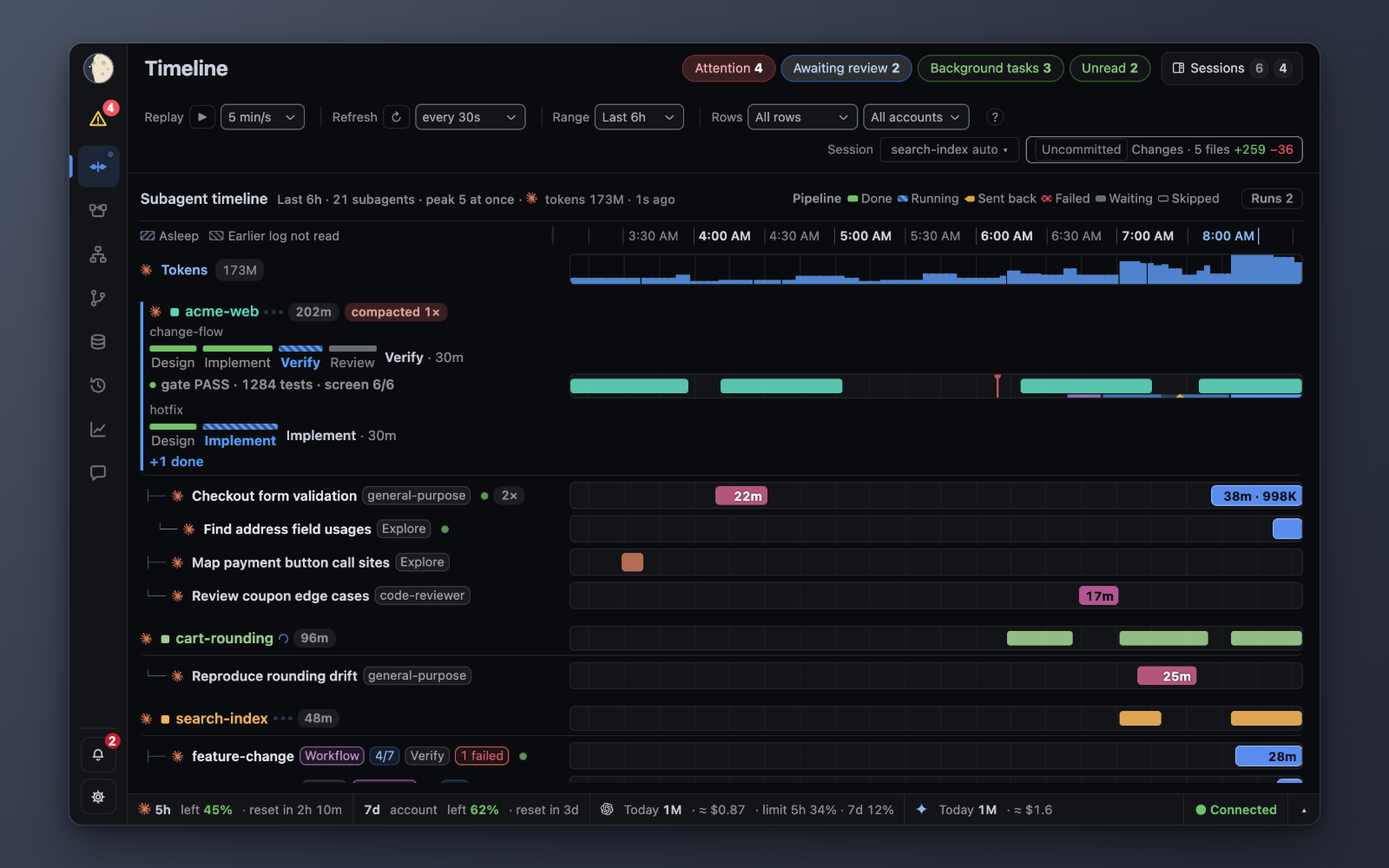
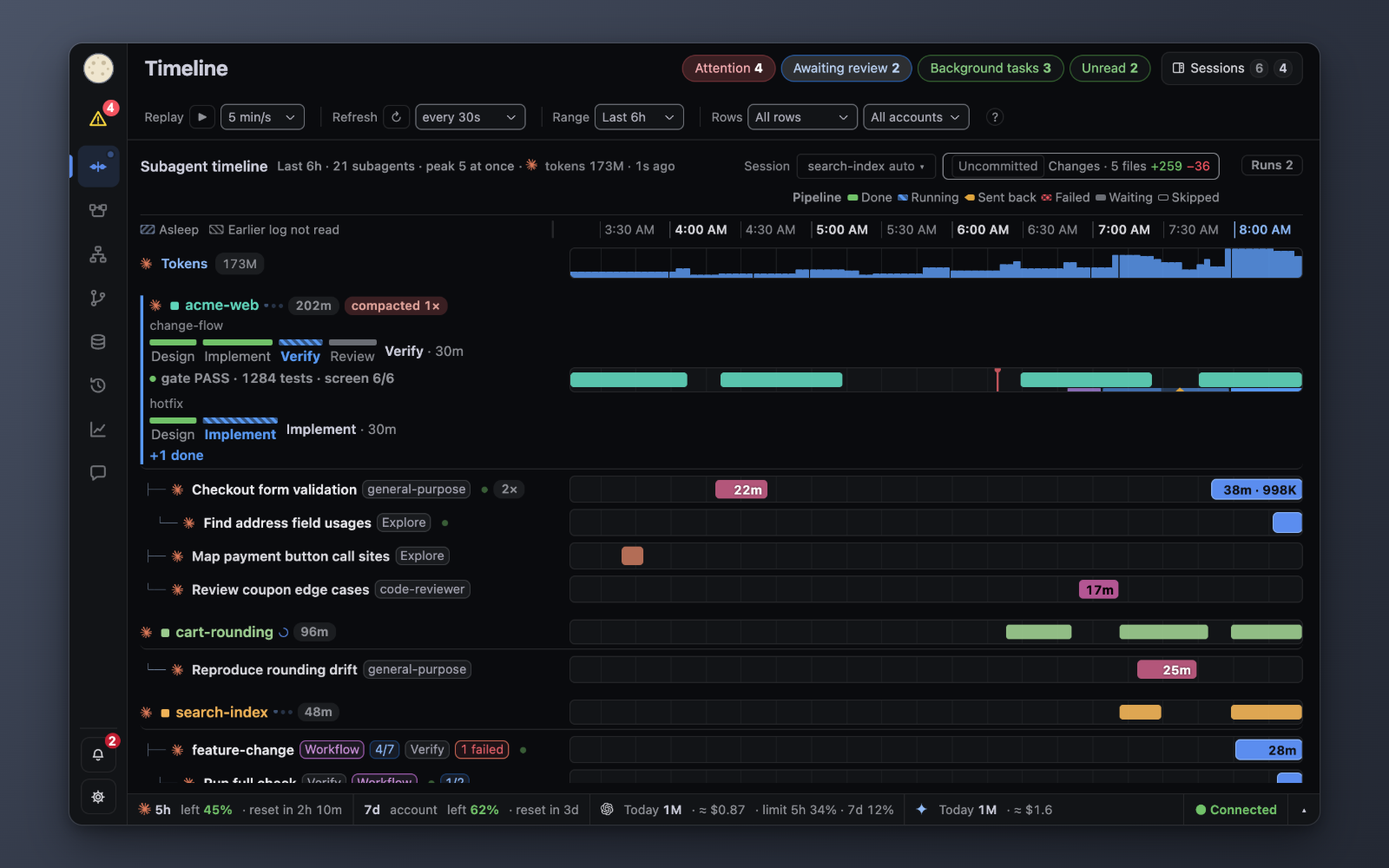
Timeline: move the Session picker and «Changes» chip to the head line
At 1100px the toolbar slot was 1012px and its content 1015px once the
baseline badge was added, so the Session/«Changes» group wrapped to a
second toolbar line. The group now sits right-aligned on the «Subagent
timeline» head line (empty window: on the empty-message line); the
toolbar keeps only replay, refresh, range and row controls.

paintTl rebuilds #feed, so tlgKeep/tlgRestore carry the old group node
across the rebuild while the session picker popover is open or focus is
inside it. The group keeps the 80px slot the absolute «Runs N» chip
needs, as the pipeline key already does. Dead toolbar rules removed.

Done when:
R1: toolbar fits one line at 1100 — PASS (live and demo 1100, ko/en)
R2: group shows on the head line without overlapping «Runs N» — PASS (demo 900/1100/1440 screen_check 6/6, shots read)
R3: picker popover and focus survive a head rebuild — PASS (tests/test_tl_focus_js.py HeadRebuild)
Not doing: reworking the 900px toolbar wrap (pre-existing «?» wrap in en).

Claude-Session: https://claude.ai/code/session_01MxebWeSyRGi1H6Uy4AA5wg

diff --git a/web/js/74-timeline.js b/web/js/74-timeline.js
@@ -146,7 +146,7 @@ function paintTl(){
   // No sessions at all = a first run: add the next step, otherwise an empty timeline is just a quiet period.
   const tlNext = (SESS || []).length ? '' : '<div class=hidnote>' + T('Next: start an AI coding-agent session — its subagents are drawn here.') + '</div>';
   // ⚠Controls before the empty return: widening the range is the only way out of an empty window ; the git chip stays (changes exist without subagents)
-  if(!rows.length){ tbSet('time', tlCtlHtml() + tlgChipHtml()); tlgWire(); box.innerHTML = '<div class=tlhd><i>' + (typeof tlEmptyMsg === 'function' ? tlEmptyMsg(d, rows) : esc(TV({msg: 'No subagents ran in the last {n}h', vars: {n: d.hours}}))) + '</i></div>' + tlNext; return void tlWireCtl(apFo); }
+  if(!rows.length){ tbSet('time', tlCtlHtml()); const gk = tlgKeep(box); box.innerHTML = '<div class=tlhd><i>' + (typeof tlEmptyMsg === 'function' ? tlEmptyMsg(d, rows) : esc(TV({msg: 'No subagents ran in the last {n}h', vars: {n: d.hours}}))) + '</i>' + tlgChipHtml() + '</div>' + tlNext; tlgRestore(gk); return void tlWireCtl(apFo); }
   const {t0, t1, span, pct} = tlRange(d, rows);
   const {ticks, axis} = tlAxis(d, t0, t1, span, pct);
   const drawn = tlDrawn(rows, pct);
@@ -160,8 +160,8 @@ function paintTl(){
   const L = {pct, t0, idleb, ticks, napb};
   const bars = ordered.map((g, gi) => tlRow(g, gi, L)).join('');
   const tlHead = tlHeadHtml(d, rows, tlHidden, tlPlLegendFor(ordered, L));
-  const tlgFo = tlgFocusId();   // ⚠rebuilding the toolbar drops a focused chip control to <body>; refocused by id below
-  tbSet('time', tlCtlHtml() + tlgChipHtml());
+  tbSet('time', tlCtlHtml());
+  const gk = tlgKeep(box);   // ⚠the head (with the «Changes» group) is rebuilt below; tlgRestore keeps the open picker's opener and focus
   const sc0 = box.querySelector('.tlscr'), scTop = sc0 ? sc0.scrollTop : 0;   // ⚠the rows scroller is rebuilt every repaint — keep its position
   box.innerHTML = tlHead
     // ★No bands on the axis row (2026-09-18: mark spans only on bar rows, leave the time band alone
@@ -183,8 +183,7 @@ function paintTl(){
       + '<div id=tldrw></div>');
   const sc1 = box.querySelector('.tlscr'); if(sc1 && scTop) sc1.scrollTop = scTop;
   tlWireCtl(apFo);
-  tlgWire();
-  if(tlgFo){ const f = document.getElementById(tlgFo); if(f) f.focus({preventScroll: true}); }
+  tlgRestore(gk);
   tlAxFit(box);
   tlAgeTick();
   tlWireRows(box);

diff --git a/web/css/22-timeline-git.css b/web/css/22-timeline-git.css
@@ -1,7 +1,18 @@
 /* Timeline toolbar «Changes» chip + session combobox (77-timeline-git.js). Theme tokens only. */
 .tlgb{display:inline-flex;align-items:center;gap:6px;min-width:0}
-/* ⚠Timeline toolbar is the widest (en 1100 needed 1264px): wrap the session/Changes group to a second line instead of scrolling sideways */
-html[data-ui=next] .tbs:has(> .tlgb){flex-wrap:wrap;row-gap:6px}
+/* Group lives in the timeline head row (74b tlHeadHtml) or the empty-window line, right-aligned before the pipeline legend.
+   ⚠.wvh span / .wvh b (40-tokens) and .wvh > span (05) restyle every span in the head; #feed id selectors reassert the chip look. */
+#feed :is(.wvh,.tlhd) > .tlgb{margin-left:auto;font-size:11px;font-weight:400;color:var(--nx-t2);overflow:visible;white-space:nowrap}
+/* ⚠The «Runs N» chip (.tlplhb) is absolute at line 1's right end; keep its slot free as .tlplg does (21-timeline-plrun.css). */
+#feed .wvh:has(> .tlplhb) > .tlgb{margin-right:80px}
+#feed .tlhd:has(> .tlgb){display:flex;align-items:center;gap:8px;flex-wrap:wrap}
+#feed .wvh .tlgb span{overflow:visible;text-overflow:clip;font-size:inherit;color:inherit}
+#feed .wvh .tlgb > b{color:var(--nx-t3);font-size:10.5px;font-weight:400}
+#feed .wvh .tlgb .tlga{color:var(--nx-ok)}
+#feed .wvh .tlgb .tlgd{color:var(--nx-err)}
+#feed .wvh .tlgb :is(.tlgsh,.tlgbkw){color:var(--nx-warn,var(--nx-err))}
+#feed .wvh .tlgb :is(.tlgbk,.tlgau){font-size:10px}
+#feed .wvh .tlgb .tlgbk:not(.tlgbkw),#feed .wvh .tlgb .tlgau{color:var(--nx-t3)}
 /* ⚠#id selector on purpose — html[data-ui=next] .tlrf (0,2,1) otherwise flattens the border to --nx-rule. */
 #tlgcp{display:inline-flex;align-items:center;gap:4px;color:var(--nx-t2);border:1px solid var(--nx-t3);border-radius:6px;padding:1px 8px;
   background:none;font:inherit;font-size:11px;white-space:nowrap;cursor:pointer}

diff --git a/web/js/77-timeline-git.js b/web/js/77-timeline-git.js
@@ -102,13 +102,25 @@ function tlgFocusId(){
   const ae = document.activeElement;
   return ae && ae.id === 'tlgcp' ? ae.id : '';
 }
+// paintTl rebuilds #feed (head included): keep the old group while the session picker is open (its opener) or holds focus.
+function tlgKeep(box){
+  const og = box.querySelector ? box.querySelector('#tlgb') : null, ae = document.activeElement;
+  const fo = !!(og && ae && og.contains(ae));
+  return {el: og && (popIsOpen('ppop') || fo) ? og : null, ae: fo ? ae : null, id: tlgFocusId()};
+}
+function tlgRestore(k){
+  const nw = document.getElementById('tlgb');
+  if(k && k.el && nw && nw !== k.el) nw.replaceWith(k.el);   // ⚠a detached node loses focus; refocused below
+  const f = k && (k.ae || (k.id && document.getElementById(k.id)));
+  if(f && f.focus) f.focus({preventScroll: true});
+  tlgWire();
+}
 function tlgPaint(){
   const el = document.getElementById('tlgb');
   if(!el) return;
   if(popIsOpen('ppop')) return;   // ⚠a repaint would replace the session picker's opener under its popover
   const fo = tlgFocusId();
   if(!setHtml(el, tlgChipInner(tlgTarget()))) return;
-  if(el.parentElement) el.parentElement._sh = null;   // ⚠the toolbar slot's setHtml cache no longer matches its DOM; the next tbSet must rewrite
   if(fo){ const f = document.getElementById(fo); if(f) f.focus({preventScroll: true}); }
   tlgWire();
 }

diff --git a/web/js/74b-timeline-rows.js b/web/js/74b-timeline-rows.js
@@ -225,7 +225,7 @@ function tlHeadHtml(d, rows, tlHidden, lg){
       + (tlErr ? '<em class=tlage style="color:'+thc('#f0b357','var(--nx-warn)')+'"> · '+esc(T(tlErr))+'</em>' : '')
       + '</span>'
       // The label above was removed (2026-09-01) — the session card already says the same. The marker goes **on that row**.
-    + (lg || '') + '</div>';
+    + (typeof tlgChipHtml === 'function' ? tlgChipHtml() : '') + (lg || '') + '</div>';   // «Changes» group before the legend, pushed right (22 css)
   return tlHead;
 }
 // Controls and «?» live in the header toolbar slot (tbSet, 92-mainview-tabs.js); ids are global so tlWireCtl finds them.

diff --git a/web/css/20-timeline.css b/web/css/20-timeline.css
@@ -313,7 +313,6 @@ html[data-ui=next][data-theme=light] .tlsi i{filter:brightness(.7)}
 .tlhx{display:inline-flex;gap:5px;align-items:center;flex:0 0 auto}
 /* Account picker (40b acctPickHtml) sized like the other toolbar selects */
 .tlhx .acpk{font-size:11px;padding:2px 6px;max-width:16em}
-.tbs > .tlgb{margin-left:auto}
 /* Window summary «More / Less» toggle (76 #tlsmore): reads as a button, not body text */
 .tlsmore{display:inline-block;font-size:11px;color:var(--nx-t2);border:1px solid var(--nx-rule);border-radius:6px;padding:1px 8px;cursor:pointer}
 .tlsmore:hover{color:var(--nx-t1);border-color:var(--nx-t3)}

diff --git a/tests/test_tlg_base_badge_js.py b/tests/test_tlg_base_badge_js.py
@@ -58,5 +58,38 @@ class BaseBadge(unittest.TestCase):
         self.assertIn("기본 브랜치 이후", _run("console.log(JSON.stringify(tlgBaseLabel({ok: true, baseKind: 'branch'})));", "ko"))
 
 
+KEEP = """
+const calls = [];
+let POP = false, ACT = null;
+const mk = n => ({n, contains: x => x === n + ':btn' || (x && x.n === n), replaceWith: o => calls.push('replace:' + n + '>' + o.n), focus: () => calls.push('focus:' + n)});
+const OLD = mk('old'), NEW = mk('new');
+const document = { get activeElement(){ return ACT; }, getElementById: id => id === 'tlgb' ? NEW : id === 'tlgcp' ? mk('cp') : null };
+const popIsOpen = () => POP, tlgWire = () => calls.push('wire');
+const box = {querySelector: () => OLD};
+"""
+
+
+def _keep(body):
+    code = KEEP + "\n".join(js_fn(f) for f in ("tlgFocusId", "tlgKeep", "tlgRestore")) + "\n" + body + "\nconsole.log(JSON.stringify(calls));"
+    r = subprocess.run(node_e(code), stdout=subprocess.PIPE, stderr=subprocess.PIPE, timeout=20)
+    if r.returncode != 0:
+        raise AssertionError(r.stderr.decode())
+    return json.loads(r.stdout)
+
+
+@unittest.skipUnless(shutil.which("node"), "node not installed")
+class HeadRebuild(unittest.TestCase):
+    def test_idle_takes_the_new_group(self):
+        self.assertEqual(_keep("tlgRestore(tlgKeep(box));"), ["wire"])
+
+    def test_open_picker_keeps_old_opener(self):
+        self.assertEqual(_keep("POP = true; tlgRestore(tlgKeep(box));"), ["replace:new>old", "wire"])
+
+    def test_focus_inside_is_restored(self):
+        f = _keep("const b = mk('old'); ACT = {n: 'old', focus: () => calls.push('refocus')}; tlgRestore(tlgKeep(box));")
+        self.assertEqual(f, ["replace:new>old", "refocus", "wire"])
+        self.assertEqual(_keep("ACT = {id: 'tlgcp'}; box.querySelector = () => null; tlgRestore(tlgKeep(box));"), ["focus:cp", "wire"])
+
+
 if __name__ == "__main__":
     unittest.main()

diff --git a/tests/test_tl_empty_ctl_js.py b/tests/test_tl_empty_ctl_js.py
@@ -20,7 +20,7 @@ const box = {innerHTML: ''};
 const document = {getElementById: id => id === 'feed' ? box : null};
 const esc = s => s;
 const tbSet = (k, h) => calls.push(['tbSet', k, h]);
-const tlCtlHtml = () => '<CTL>', tlgChipHtml = () => '<GIT>', tlgWire = () => calls.push(['gitwire']);
+const tlCtlHtml = () => '<CTL>', tlgChipHtml = () => '<GIT>', tlgKeep = () => ({}), tlgRestore = () => calls.push(['gitwire']);
 const tlWireCtl = () => calls.push(['wire']);
 let TLD = {ok: true, hours: 12, rows: ROWS};
 try{ paintTl(); }catch(e){ calls.push(['threw']); }
@@ -33,7 +33,8 @@ process.stdout.write(JSON.stringify({calls, html: box.innerHTML}));
 
     def test_empty_rows_still_set_and_wire_controls(self):
         R = self.run_paint([])
-        self.assertIn(["tbSet", "time", "<CTL><GIT>"], R["calls"])   # the git chip stays without subagent rows
+        self.assertIn(["tbSet", "time", "<CTL>"], R["calls"])
+        self.assertIn("</i><GIT></div>", R["html"])   # the git chip stays on the empty line (changes exist without subagents)
         self.assertIn(["gitwire"], R["calls"])
         self.assertIn(["wire"], R["calls"])
         self.assertIn("No subagents ran in the last 12h", R["html"])

diff --git a/tests/test_tl_focus_js.py b/tests/test_tl_focus_js.py
@@ -82,9 +82,10 @@ document.activeElement = null; R.nul = tlgFocusId();
 
     def test_paint_tl_refocuses_rail(self):
         s = js_fn("paintTl")
-        self.assertIn("tlgFocusId()", s)
-        self.assertLess(s.index("tlgFocusId()"), s.index("tbSet('time', tlCtlHtml() + tlgChipHtml());\n"))
-        self.assertIn("getElementById(tlgFo)", s)
+        self.assertIn("tbSet('time', tlCtlHtml());", s)   # the «Changes» group moved to the head row
+        self.assertLess(s.index("const gk = tlgKeep(box)"), s.index("box.innerHTML = tlHead"))
+        self.assertLess(s.index("box.innerHTML = tlHead"), s.rindex("tlgRestore(gk)"))
+        self.assertIn("tlgFocusId()", js_fn("tlgKeep"))
 
     def test_tlq_focus_ring(self):
         self.assertIn(".tlq:focus-visible{outline:2px solid var(--nx-info)", src("web/css/90-main-ui.css"))

diff --git a/docs/dev/FILEMAP.md b/docs/dev/FILEMAP.md
@@ -148,13 +148,13 @@ Sidereus is both the shown name and the code name (package, MCP, launchd label, 
 | `65-worktabs.js` | N-way split |  |  |
 | `70-timeline-state.js` |  |  |  |
 | `74-timeline.js` | Unlabelled ticks `.tlaxn` — ⚠UTC multiples put 2h/6h on odd KST hours · name column `clamp(260px,24vw,340px), or the dragged `--tlnm-w` (74d)` (a fixed 340 leaves a 330px track at 1100 + rail) · hover card `tlHovPos` inside `.tlwrap`; the unpinned `#tlcurp` is display:none while the card shows · `paintTl` assembly → window `tlRange` · axis `tlAxis` · bar marks `tlDrawn`/`tlCarve` · idle/asleep bands `tlIdle`/`tlNaps` · row grouping `tlGroups` → session sort·hide `tlSessions` → lineage order `tlOrdered` · token band `tlTokRow` · hover card `tlHov*` · worktree `tlWtOf` · `.tlscr` scrolls rows only (summary `#tldrw` pinned at the bottom, 20-timeline.css) | `.tlaxn`, `clamp`, `tlHovPos`, `.tlwrap`, `#tlcurp`, `paintTl`, `tlRange`, `tlAxis`, `tlDrawn`, `tlCarve`, `tlIdle`, `tlNaps`, `tlGroups`, `tlSessions`, `tlOrdered`, `tlTokRow`, `tlWtOf` | ⚠axis = local-time grid (the finest step in `TL_STEPS` with ≤24 ticks); label spacing picked by `tlAxGrade` from measured label width + 8px (on every resize) |
-| `74b-timeline-rows.js` | When the name overflows, chips hide in the order type/stage → «N uses» → «Workflow» (`tlNmFit`, ResizeObserver) · bar text colour `tlInk` = first colour reaching 4.5:1 (#0d1014→#fff→#000) — ⚠the 00-core light twin darkens light text → text on a fixed-colour background puts `html[data-ui]` in its selector to skip the generator · rows `tlPick`/`tlRow` (→ `tlSessRow`/`tlAgentRow`, fills `tlHovG`) · head `tlHeadHtml` · toolbar `tlHelpText`/`tlCtlHtml`→`tbSet` · wiring `tlWireCtl`/`tlWireRows` | `tlNmFit`, `tlInk`, `tlPick`, `tlRow`, `tlSessRow`, `tlAgentRow`, `tlHovG`, `tlHeadHtml`, `tlHelpText`, `tlCtlHtml`, `tbSet`, `tlWireCtl`, `tlWireRows` |  |
+| `74b-timeline-rows.js` | When the name overflows, chips hide in the order type/stage → «N uses» → «Workflow» (`tlNmFit`, ResizeObserver) · bar text colour `tlInk` = first colour reaching 4.5:1 (#0d1014→#fff→#000) — ⚠the 00-core light twin darkens light text → text on a fixed-colour background puts `html[data-ui]` in its selector to skip the generator · rows `tlPick`/`tlRow` (→ `tlSessRow`/`tlAgentRow`, fills `tlHovG`) · head `tlHeadHtml` (+ «Changes» group `tlgChipHtml`, 77) · toolbar `tlHelpText`/`tlCtlHtml`→`tbSet` (controls only) · wiring `tlWireCtl`/`tlWireRows` | `tlNmFit`, `tlInk`, `tlPick`, `tlRow`, `tlSessRow`, `tlAgentRow`, `tlHovG`, `tlHeadHtml`, `tlHelpText`, `tlCtlHtml`, `tbSet`, `tlWireCtl`, `tlWireRows` |  |
 | `74c-timeline-plrun.js` | Pipeline on a session row: stage strip in the name cell (`tlPlStrip`, segmented bar `plStepper` — one 18×4 segment per stage coloured by state, names only in each segment title; popup `.lg` 46×5 with names below · ended run `fin` · «+N» when more runs are open · current stage gate line `plEvLine` inside the top run line) + stage bands in the bar cell (`tlPlBands`, ↺ tick when k≥2) · pick `tlPlRun` (open run > ended run inside the window; stage order from the pipeline file) · click/Enter = pipeline view `plOvPick` (no scrolling) · focus restored by id after repaint `tlPlWire` · `tlPlSync` (from 76 `tlSyncState`, every poll) repaints when the SESS plrun stage outline changes — metadata only | `tlPlRun`, `tlPlStrip`, `tlPlBands`, `tlPlWire`, `tlPlSync`, `TLPL_REQ` | ⚠paintTl otherwise runs only on the timeline fetch (30 s default, never when manual) |
 | `74c-timeline-plrun.js` (head) | Run summary chips at the timeline head (`tlPlHead` → `tlPlHeadHtml`, via `tlPlLegendFor` before the key): every `SESS[].plrun` open run + runs ended ≤600 s ago (`TLPL_RECENT_S`); `k` fail > back (via / k≥2) > stuck (ask/abort · ATTN `stall` · stage ≥1800 s with no running agent and session not think/tool) > run, ended = ok/stop (`tlPlEnd(r, cur, true)`); ≤3 chips + «+N»; ended/fail chips carry `plEvLine` with commits; click = `tlPlGo` | `tlPlHead`, `tlPlHeadHtml`, `.tlplh`, `.tlplc` | ⚠colour only on fail/back/stuck; no stripe motion in the header |
 | `74d-timeline-nmcol.js` | Name column width: drag the grip `#tlnmg` at the right of the axis row's name cell → `--tlnm-w` on `#feed` (220px – half the timeline column, setting `sidereus.tlnmW`, double-click = default clamp) · ResizeObserver on the axis row re-clamps the width (segment steppers shrink with the cell, no fit pass) · `tlPlWire` calls `tlNmColWire` on every paint | `tlNmWClamp`, `tlNmApply`, `tlNmColWire`, `tlNmW` | ⚠max width is half the timeline column (`.tlaxr`), not of #feed — with the change rail open, half of #feed shrinks the track to ~150px |
 | `75-timeline-cursor.js` | Time cursor·playback |  |  |
 | `76-timeline-drawer.js` | Bottom drawer · «Window summary»: Results (commits; pipeline runs ✓/✕/↺) · Evidence (gate PASS/FAIL, first failing step) shown by default; «More» (remembered) adds Waited on you (count + time from row field `wt:[n,secs]`) · Outliers · Cost (tokens, tokens/commit) |  | ⚠«Longest gap» and «Running now» were removed — not lost rows |
-| `77-timeline-git.js` | Timeline toolbar chip «Changes · N files +a −d» (+ compact session select when 2+ sessions) opens the 35c diff window at the same baseline · baseline `tlgBase` (Settings › Timeline «Changes baseline», UIS `sidereus.tlgbase`, default `head` = strictly uncommitted; `tlgBaseSet` clears `tlgC` and refetches; tooltip `tlgBaseTip`; leading badge `tlgBaseLabel` = effective `baseKind`, chosen mode before a reply, warn colour on fallback) · «⚠ n shared» count when two sessions touched the same file · poll `tlgTick`. The right «Changes» rail, its width grip, per-file «edited by» chips and the conflict popover are removed (prefs `sidereus.tlgit`/`tlgw`/`tlgUntr` dropped) | `tlgTick` |  |
+| `77-timeline-git.js` | Timeline head-row chip «Changes · N files +a −d» (+ compact session select when 2+ sessions) opens the 35c diff window at the same baseline · baseline `tlgBase` (Settings › Timeline «Changes baseline», UIS `sidereus.tlgbase`, default `head` = strictly uncommitted; `tlgBaseSet` clears `tlgC` and refetches; tooltip `tlgBaseTip`; lives in the head row (74b `tlHeadHtml`, before the pipeline legend) or the empty-window line; `tlgKeep`/`tlgRestore` keep the open picker's opener and focus across `paintTl` rebuilds; leading badge `tlgBaseLabel` = effective `baseKind`, chosen mode before a reply, warn colour on fallback) · «⚠ n shared» count when two sessions touched the same file · poll `tlgTick`. The right «Changes» rail, its width grip, per-file «edited by» chips and the conflict popover are removed (prefs `sidereus.tlgit`/`tlgw`/`tlgUntr` dropped) | `tlgTick` |  |
 | `80-structure.js` | State·squarify·colour·multi-project·info · header project combobox (08b `ppComboHtml` `k:'str'`, recent `sidereus.strrecent`) · mode toggle «Architecture | Size» (`strMode`; any other stored `sidereus.strmd` = arch) |  |  |
 | `81-structure-panel.js` | Cell code·diff·popup·panel · code popup = one window per target (`strWins`, name `strWinName(strPopKey)`: kind·project·file·line / cell; same target focuses it, new ones cascade 30px; state `win._sp`, `strPop`/`strWin` = the active window, `strPopPaint` repaints every window; Esc closes that window; blocked -> overlay `#spop`) · plain text windows for other tabs: `strPopOpenText` (open with a loading text, inside the click) → `strPopTextSet` (fill the same window) → `strTextPaint`, `strPopKey` kind `'x'` (caller key, e.g. 47b `proj\nref`) · area sub-list `strPanList` = fixed-width columns (lines·edits·last change·delta·first seen) + cell colour swatch; first seen from `strFirstSeen` — ⚠past the cap it shows `≤` | `strPanList`, `strFirstSeen` |  |
 | `81b-structure-tree.js` | «Source» popup — project root tree `strTreeHtml` · file `strTreeCode` · git colours `STR_TREE_ST` (A green·M blue·D grey) · entry `strPopOpenTree` · caches `strTreeLs`/`strTreeFc` | `strTreeHtml`, `strTreeCode`, `STR_TREE_ST`, `strPopOpenTree`, `strTreeLs`, `strTreeFc` |  |

diff --git a/docs/GUIDE.ko.md b/docs/GUIDE.ko.md
@@ -39,7 +39,7 @@
 ## 세션이 한 일 되짚기
 
 1. 타임라인 탭을 연다. 세션과 서브에이전트마다 행이 하나다. 마우스를 올리면 작업 설명이 뜬다. 도구줄의 «행» 을 «실행 중만» 으로 바꾸면 끝난 서브에이전트 행이 숨는다. 세션 행은 그대로 남는다(브라우저에 기억). 시간 축 줄의 이름 칸 오른쪽 끝을 끌면 이름 열이 넓어진다(두 번 누르면 기본값). 세션 행의 빨간 선은 압축, 파란 점선은 /clear 자리다(마우스를 올리면 시각과 새 세션·이전 세션 id 가 나온다).
-2. 타임라인 도구 줄의 «변경 · 파일 N개 +a −d» 칩이 따라가는 세션에서 «변경 기준» 대비 바뀐 파일 수를 보여 준다(기본 «미커밋»: 작업 트리와 인덱스를 직전 커밋과 비교, 툴팁에 기준이 나온다. 칩 앞쪽의 작은 배지가 실제로 쓴 기준을 보여 주고, 고른 기준을 쓸 수 없으면 경고 색으로 바뀐다)(세션이 둘 이상이면 옆의 «세션» 검색 콤보박스로 하나를 고르거나 «자동(최근 활동)» 을 둔다). «⚠ 공유 n개» 는 두 세션이 같은 파일을 고쳤다는 뜻이다. 칩을 누르면 같은 기준으로 diff 창이 열린다. 기준 버튼은 «미커밋»(직전 커밋) · «세션 시작 이후» · «main(master) 대비» · «전체»(원격)이고, 추적 안 된 파일은 «추적 안 된 파일 포함» 을 켜야 보인다. 세션이 여러 저장소에 걸치면 저장소 탭으로 하나를 고른다.
+2. 타임라인 머리 줄 오른쪽의 «변경 · 파일 N개 +a −d» 칩이 따라가는 세션에서 «변경 기준» 대비 바뀐 파일 수를 보여 준다(기본 «미커밋»: 작업 트리와 인덱스를 직전 커밋과 비교, 툴팁에 기준이 나온다. 칩 앞쪽의 작은 배지가 실제로 쓴 기준을 보여 주고, 고른 기준을 쓸 수 없으면 경고 색으로 바뀐다)(세션이 둘 이상이면 옆의 «세션» 검색 콤보박스로 하나를 고르거나 «자동(최근 활동)» 을 둔다). «⚠ 공유 n개» 는 두 세션이 같은 파일을 고쳤다는 뜻이다. 칩을 누르면 같은 기준으로 diff 창이 열린다. 기준 버튼은 «미커밋»(직전 커밋) · «세션 시작 이후» · «main(master) 대비» · «전체»(원격)이고, 추적 안 된 파일은 «추적 안 된 파일 포함» 을 켜야 보인다. 세션이 여러 저장소에 걸치면 저장소 탭으로 하나를 고른다.
    아래 서랍의 요약은 기본으로 결과(커밋, 파이프라인 실행 ✓/✕/↺)와 증거(게이트 PASS/FAIL, 처음 실패한 단계)를 보여 준다. «더 보기» 를 누르면 나를 기다린 시간·튀는 값·비용(토큰, 커밋당 토큰)이 더 나오고, 펼친 상태는 기억된다.
 3. 커밋 행을 누르면 diff, 세션을 누르면 작업 내역이 열린다.
 4. 더 오래된 일은 이력 탭에서 세션을 펼친다. 계정이 둘 이상이면 도구 줄에 계정 선택(«모든 계정» / 계정 하나)이 붙는다. 다른 계정의 Claude 행은 «다른 계정 N개» 한 줄로 접히고, 외부 CLI 행은 남으며, 날짜 머리는 보이는 행만 센다.

diff --git a/docs/GUIDE.md b/docs/GUIDE.md
@@ -40,7 +40,7 @@ The saver verdict in the status bar changes only when the projection is more tha
 ## Trace what a session did
 
 1. Open the Timeline tab. Each session and subagent has a row; hover for the task description. Set «Rows» in the toolbar to «Running only» to hide finished subagent rows; session rows stay (remembered per browser). Drag the right edge of the name column in the time-axis row to widen it (double-click resets). On a session row a red line marks a compaction and a dashed blue line marks a /clear (hover for the time and the new and previous session ids).
-2. The «Changes · N files +a −d» chip in the Timeline toolbar counts files changed in the followed session against «Changes baseline» (default «Uncommitted»: working tree and index vs the last commit; the tooltip names the baseline; a small badge at the start of the chip shows the baseline actually used, in the warning colour when the chosen one is unavailable) (with 2+ sessions the «Session» search combobox beside it picks one, or «Auto (latest active)»); «⚠ n shared» means two sessions touched the same file. Click it to open the diff window at the same base. Its base buttons are «Uncommitted» (last commit), «Since session start», «vs main / master» and «All» (upstream); untracked files are hidden unless «Include untracked files» is ticked. When the session spans several repos, a tab per repo picks one.
+2. The «Changes · N files +a −d» chip on the right of the Timeline head line counts files changed in the followed session against «Changes baseline» (default «Uncommitted»: working tree and index vs the last commit; the tooltip names the baseline; a small badge at the start of the chip shows the baseline actually used, in the warning colour when the chosen one is unavailable) (with 2+ sessions the «Session» search combobox beside it picks one, or «Auto (latest active)»); «⚠ n shared» means two sessions touched the same file. Click it to open the diff window at the same base. Its base buttons are «Uncommitted» (last commit), «Since session start», «vs main / master» and «All» (upstream); untracked files are hidden unless «Include untracked files» is ticked. When the session spans several repos, a tab per repo picks one.
    The summary in the bottom drawer shows «Results» (commits, pipeline runs ✓/✕/↺) and «Evidence» (gate PASS/FAIL, first failing step); «More» adds time waited on you, outliers and cost (tokens, tokens per commit), and stays open once chosen.
 3. Click a commit row for its diff, or a session for its work log.
 4. For older work, open the History tab and expand a session. With 2+ accounts its toolbar has an account picker («All accounts» / one account): other accounts' Claude rows fold into «In other accounts: N», external CLI rows stay, and day headers count the shown rows only.

diff --git a/CHANGELOG.md b/CHANGELOG.md
@@ -8,7 +8,7 @@ The format is based on [Keep a Changelog](https://keepachangelog.com/en/1.1.0/).
 ### Added
 
 - Pipelines: the «Evaluation» panel's «Result layer» states per pipeline, without a score, how many gates were seen failing, runs and blocked order violations, how many gate passes in the last 30 days broke later or had a fix follow within 14 days, and the review loop-back share against the 30 days before; `scripts/pl_report.py` writes the same facts to a dated report, refreshed weekly at run end.
-- Timeline: the toolbar «Changes» chip starts with a badge naming the baseline the files are counted against (Uncommitted, Unpushed, Since session start, Since the default branch); it turns the warning colour when the chosen baseline was not available and another was used.
+- Timeline: the «Session» picker and «Changes» chip moved from the toolbar to the right of the «Subagent timeline» head line (the toolbar no longer wraps at 1100px). The «Changes» chip starts with a badge naming the baseline the files are counted against (Uncommitted, Unpushed, Since session start, Since the default branch); it turns the warning colour when the chosen baseline was not available and another was used.
 
 ### Fixed
 
